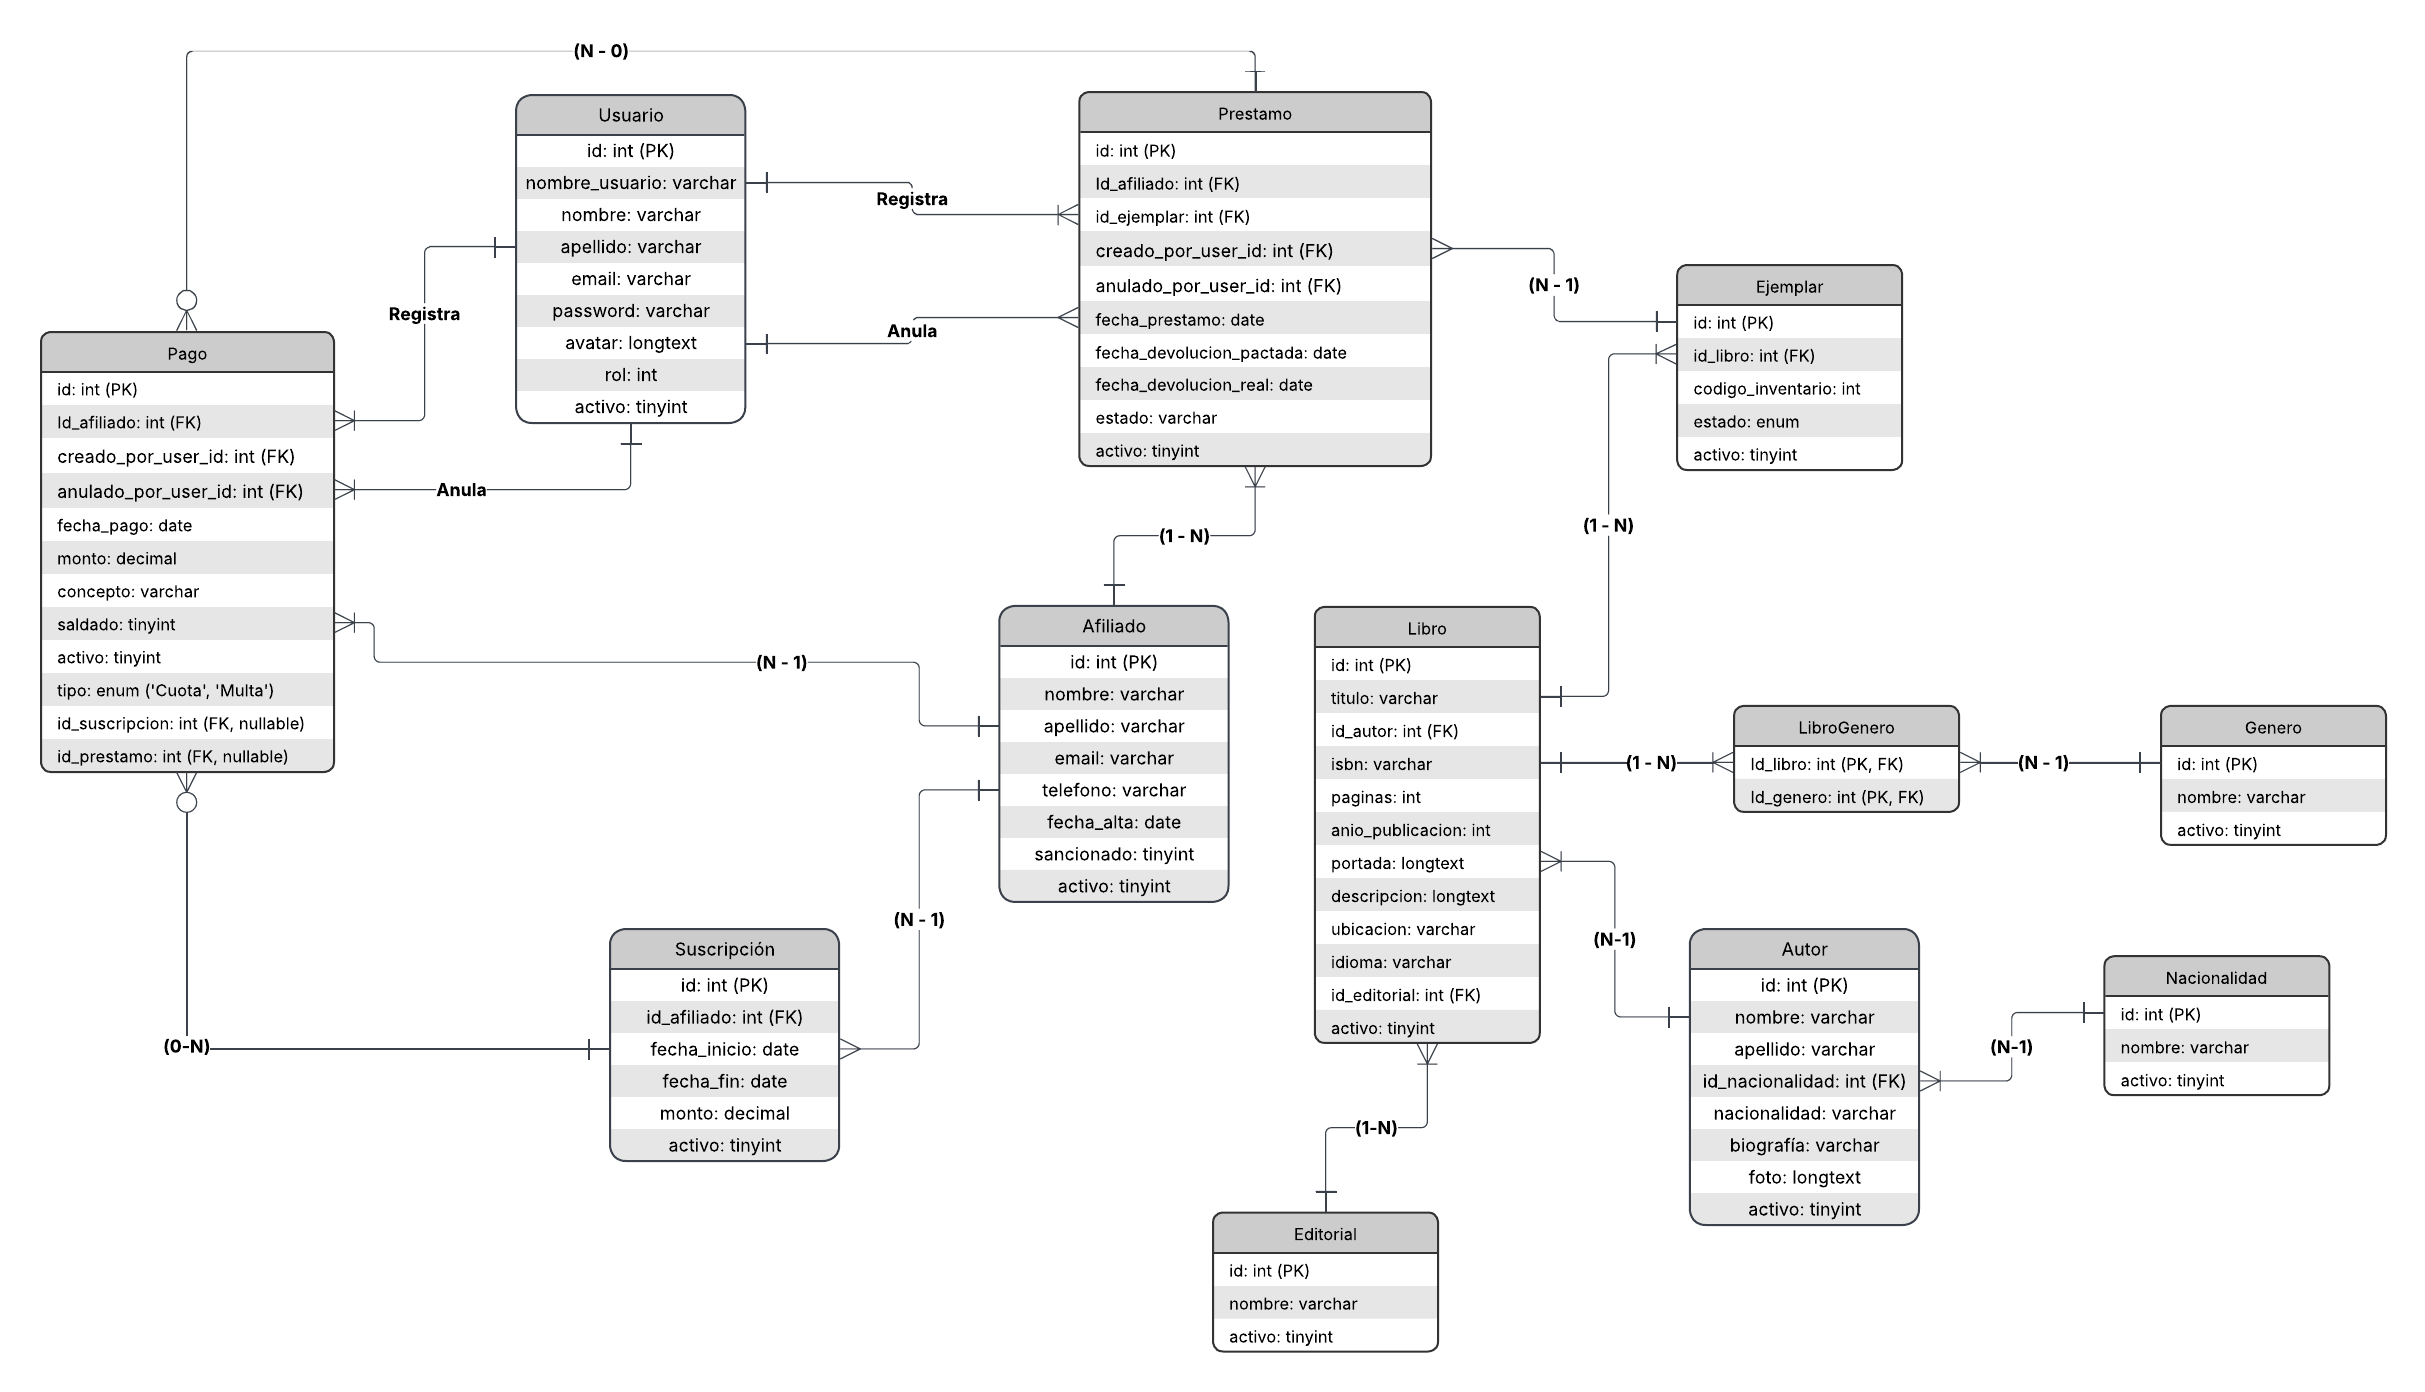
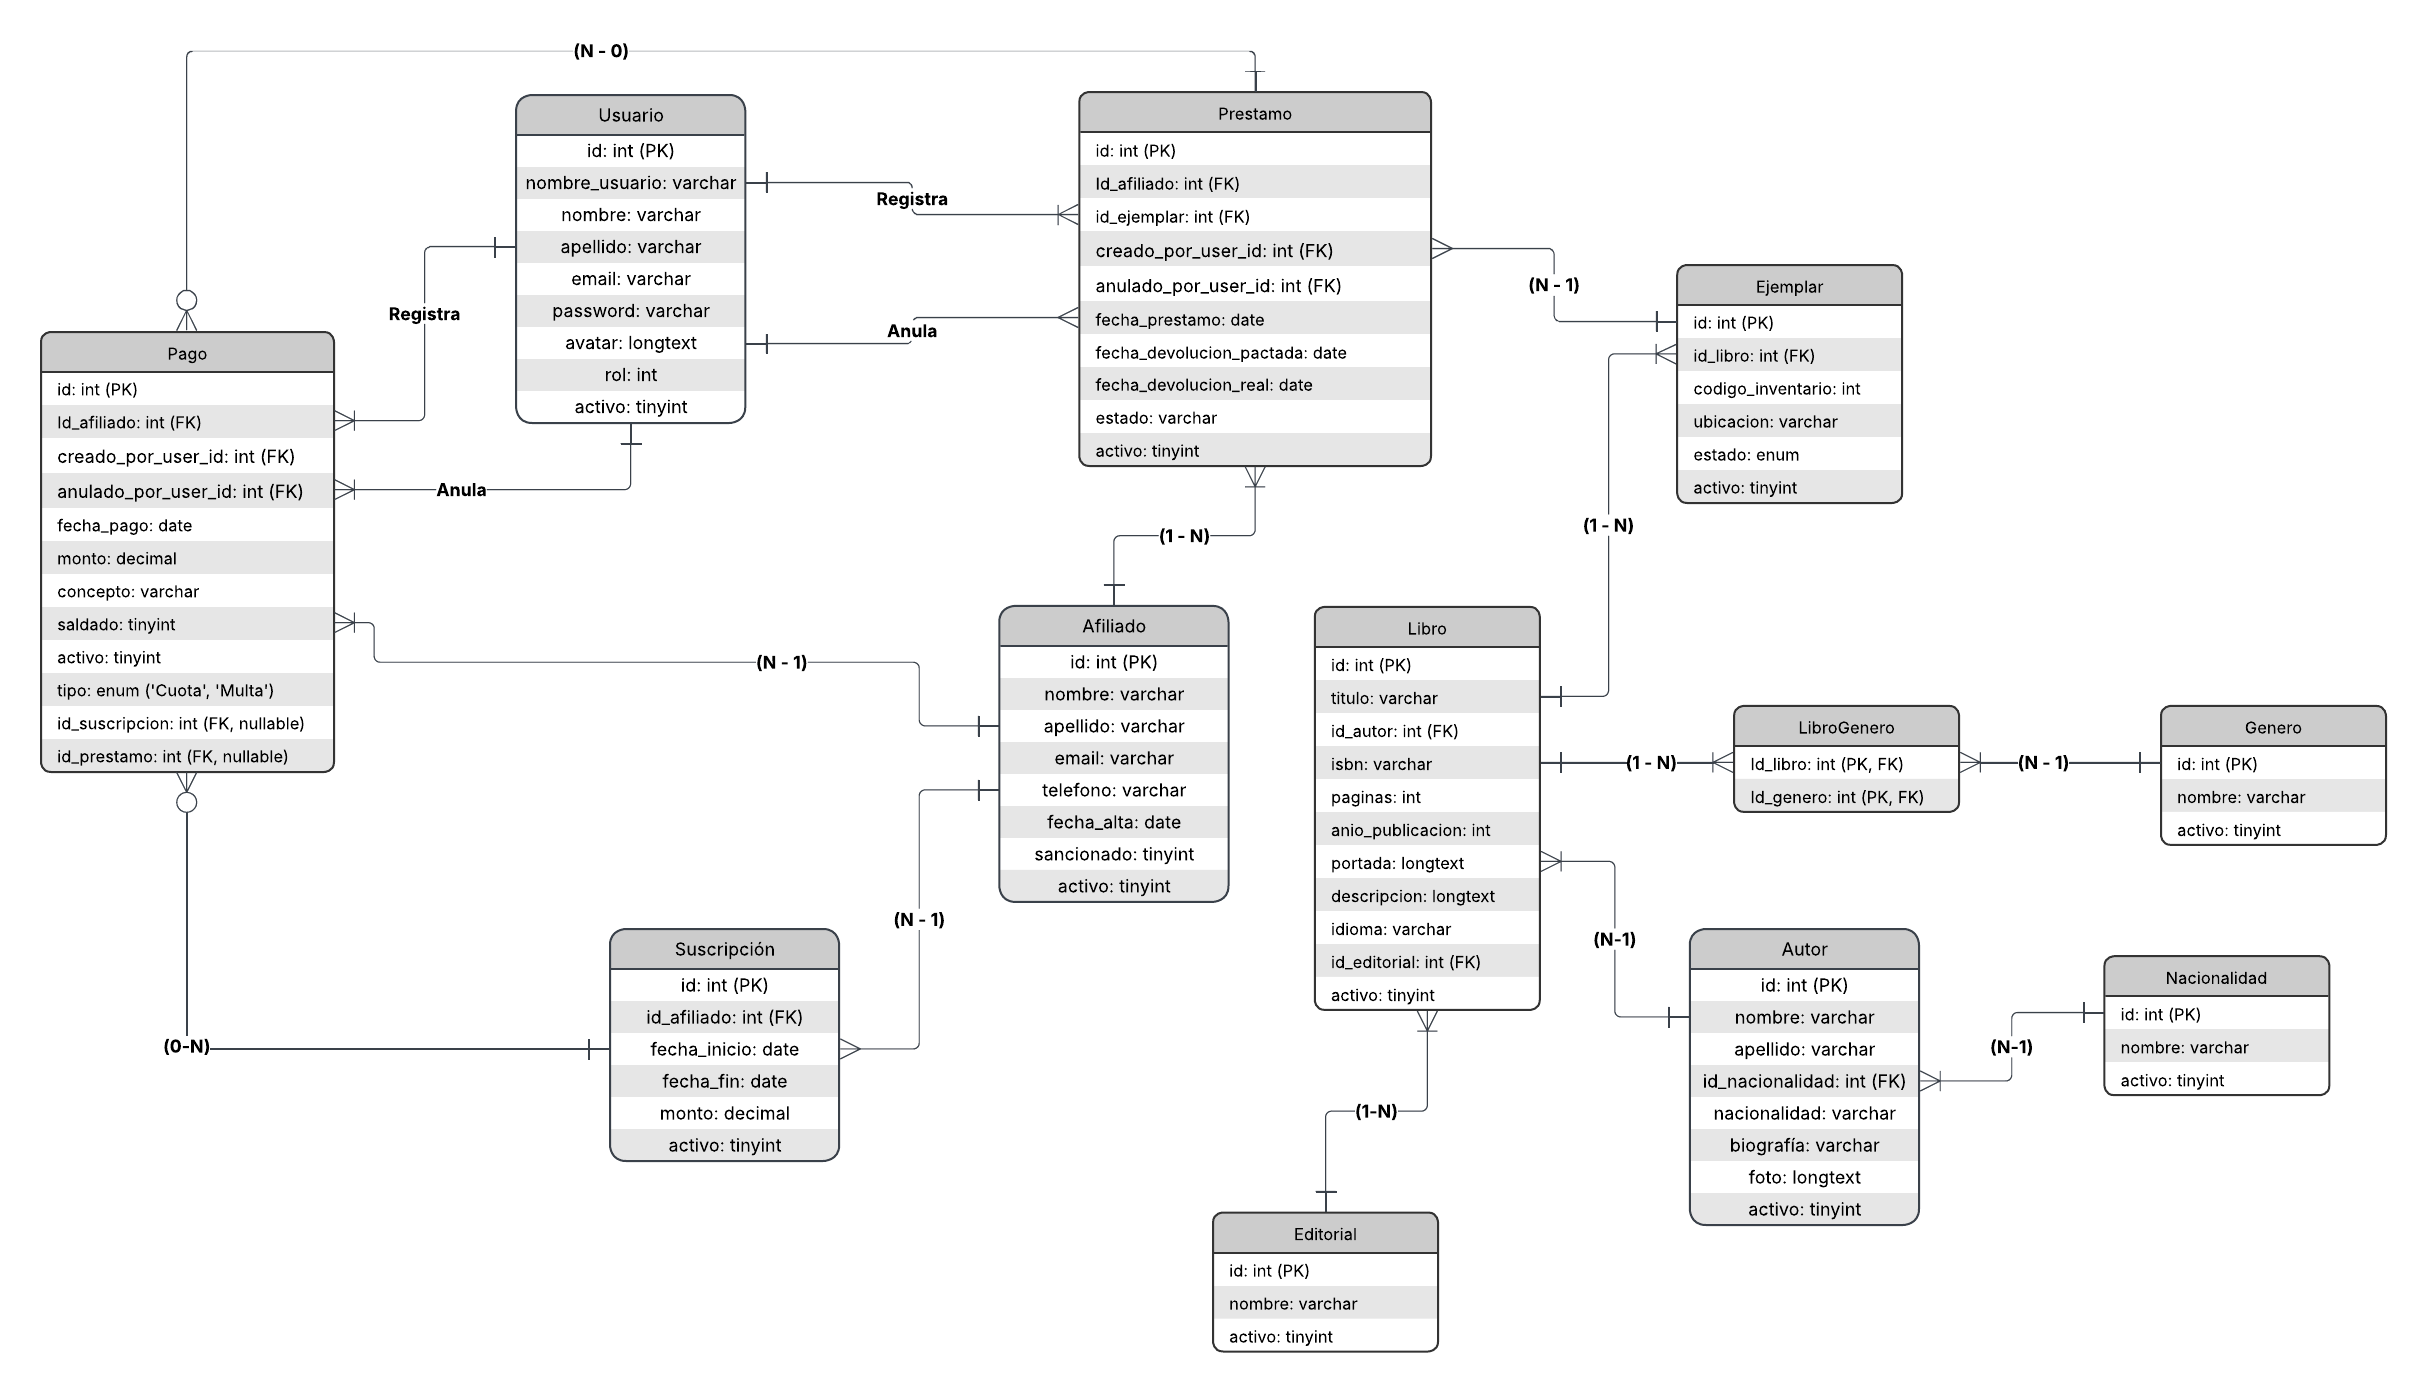
docs: Actualización del DER + README con más evidencia

Changed region(s): [[0.5258, 0.6487, 0.6495, 0.8341], [0.6804, 0.278, 0.8041, 0.3707]]

diff --git a/README.md b/README.md
@@ -115,10 +115,10 @@ Si todo se cumple, el préstamo y el cambio de estado del ejemplar a `Prestado` 
 |---|---|---|---|---|
 | 1 | **6+ tablas y relaciones 1:N y N:M** (13 tablas; N:M Libro–Género; Préstamo depende de Afiliado y Ejemplar) | ✅ Cumplido | [`Models/`](src/Models) · [`Repositories/`](src/Repositories) · [`database/biblioteca_db.sql`](database/biblioteca_db.sql) | DER en [`docs/DER.png`](docs/DER.png) |
 | 2 | **Login, roles y avatar** (cookies + claims; `[Authorize(Roles = "Administrador")]`; avatar en perfil y alta de usuario) | ✅ Cumplido | [`Program.cs` (autenticación)](src/Program.cs#L9) · [`UsuariosController.Login`](src/Controllers/UsuariosController.cs#L45) · [`UsuariosController.Perfil` (avatar)](src/Controllers/UsuariosController.cs#L118) · [`RepositorioUsuario.ValidarLogin`](src/Repositories/RepositorioUsuario.cs#L12) · [`Views/Usuarios/Login.cshtml`](src/Views/Usuarios/Login.cshtml) | Captura de pantalla de perfil con avatar en [`docs/evidencia_avatar.png`](docs/evidencia_avatar.png) |
-| 3 | **Manejo de archivos** (portadas de libros, fotos de autores, avatares) | ✅ Cumplido | [`ImagenesController.GuardarArchivoAsync`](src/Controllers/ImagenesController.cs#L16) · [`LibrosController.Create` (portada)](src/Controllers/LibrosController.cs#L67) · [`AutoresController.Create` (foto)](src/Controllers/AutoresController.cs#L62) · [`Views/Libros/Create.cshtml`](src/Views/Libros/Create.cshtml) | Video corto / GIF mostrando subida de comprobante |
-| 4 | **ABM con Vue + AJAX** (Préstamos: alta, listado, devolución y anulación sin recargar) | ✅ Cumplido | [`Views/Prestamos/Index.cshtml`](src/Views/Prestamos/Index.cshtml) · [`wwwroot/js/prestamos.js`](src/wwwroot/js/prestamos.js) · [`PrestamosController.cs`](src/Controllers/PrestamosController.cs) | Video corto / GIF del ABM dinámico |
+| 3 | **Manejo de archivos** (portadas de libros, fotos de autores, avatares) | ✅ Cumplido | [`ImagenesController.GuardarArchivoAsync`](src/Controllers/ImagenesController.cs#L16) · [`LibrosController.Create` (portada)](src/Controllers/LibrosController.cs#L67) · [`AutoresController.Create` (foto)](src/Controllers/AutoresController.cs#L62) · [`Views/Libros/Create.cshtml`](src/Views/Libros/Create.cshtml) | GIF mostrando subida en [`docs/evidencia_archivos.gif`](docs/evidencia_archivos.gif) |
+| 4 | **ABM con Vue + AJAX** (Préstamos: alta, listado, devolución y anulación sin recargar) | ✅ Cumplido | [`Views/Prestamos/Index.cshtml`](src/Views/Prestamos/Index.cshtml) · [`wwwroot/js/prestamos.js`](src/wwwroot/js/prestamos.js) · [`PrestamosController.cs`](src/Controllers/PrestamosController.cs) | GIF del ABM dinámico en [`docs/evidencia_vue.gif`](docs/evidencia_vue.gif) |
 | 5 | **Paginado por servidor** (`LIMIT/OFFSET` en SQL; se pide solo la página actual) | ✅ Cumplido | [`RepositorioPrestamo.ObtenerPaginado`](src/Repositories/RepositorioPrestamo.cs#L30) · [`RepositorioPago.ObtenerPaginado`](src/Repositories/RepositorioPago.cs#L11) · [`RepositorioAfiliado.ObtenerPaginado`](src/Repositories/RepositorioAfiliado.cs#L11) · [`RepositorioLibro.ObtenerPaginado`](src/Repositories/RepositorioLibro.cs#L15) | Capturas del inspector de red enviando page=1 y page=2 en [`docs/evidencia_paginado1.png`](docs/evidencia_paginado1.png) y [`docs/evidencia_paginado2.png`](docs/evidencia_paginado2.png)|
-| 6 | **Selección asíncrona de entidades relacionadas** (afiliado y ejemplar al crear un préstamo, sin cargar todos los registros) | ✅ Cumplido | [`AfiliadosController.BuscarAsincrona`](src/Controllers/AfiliadosController.cs#L124) · [`PrestamosController.BuscarEjemplares`](src/Controllers/PrestamosController.cs#L59) · [`wwwroot/js/prestamos.js`](src/wwwroot/js/prestamos.js) | GIF buscando entidades en desplegable |
+| 6 | **Selección asíncrona de entidades relacionadas** (afiliado y ejemplar al crear un préstamo, sin cargar todos los registros) | ✅ Cumplido | [`AfiliadosController.BuscarAsincrona`](src/Controllers/AfiliadosController.cs#L124) · [`PrestamosController.BuscarEjemplares`](src/Controllers/PrestamosController.cs#L59) · [`wwwroot/js/prestamos.js`](src/wwwroot/js/prestamos.js) | GIF buscando entidades en desplegable en [`docs/evidencia_busquedaajax.gif`](docs/evidencia_busquedaajax.gif) |
 | 7 | **Web API REST con JWT** | 🟡 Completar | Falta completar | Captura de Postman con Bearer Token y colección |
 
 ---
